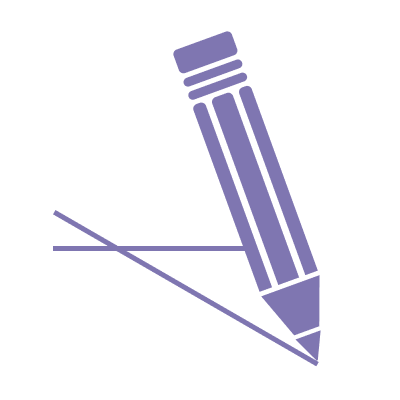
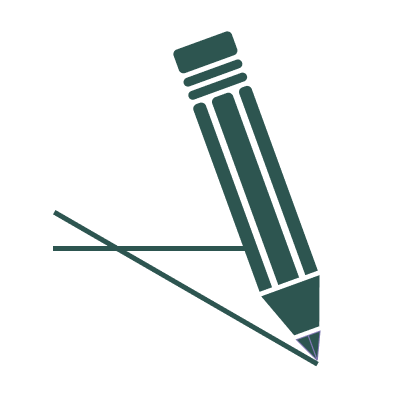
full pallete swap

Changed region(s): [[0.12, 0.06, 0.81, 0.93], [0.36, 0.66, 0.57, 0.78], [0.12, 0.51, 0.15, 0.54]]

diff --git a/public/style/style_general.css b/public/style/style_general.css
@@ -1,5 +1,6 @@
 body {
     margin: 0;
+
     background-image: linear-gradient(to bottom, white, white, rgba(123, 174, 169, 0.25));
     background-size: 100vw 100vh;
     background-repeat: no-repeat;
@@ -17,16 +18,20 @@ nav {
     display: flex;
     justify-content: space-between;
 
+    background-image: linear-gradient(to left, rgba(123, 174, 169, 0.3),  rgba(123, 174, 169, 0), rgba(123, 174, 169, 0), rgba(123, 174, 169, 0.3));
     background-repeat: no-repeat;
-    background-position: right top;
-    background-size: 250px 15vh;
+    background-size: 100vw 12vh;
+}
+
+#mainLogo {
+    height: 11vh;
 }
 
 main {
     padding-top: 14vh;
 }
 
-.darkPurple {
+.dark {
     background-color: rgba(45, 85, 80, 1);
 }
 
@@ -62,7 +67,9 @@ h1 {
 
     background-color: rgba(123, 174, 169, 0.7);
     border: none;
-    margin: 0 0.5vw;
+    margin: 0 0.3vw;
+    border-top-left-radius: 2vw;
+    border-bottom-right-radius: 2vw;
 
     height: 8vh;
     min-width: 12vw;

diff --git a/public/style/style_work.css b/public/style/style_work.css
@@ -10,8 +10,8 @@
 .workLogo {
     align-self: center;
     
-    width: 19vw;
-    height: 19vw;
+    width: 16vw;
+    height: 16vw;
     object-fit: contain;
     padding: 0.5vw;
     margin: 2vw;
